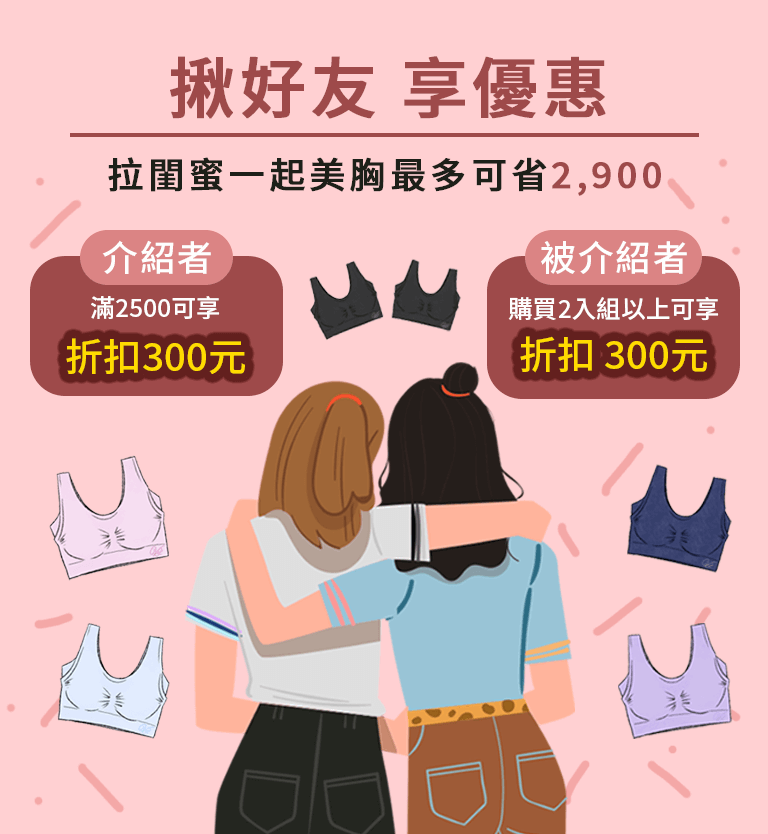
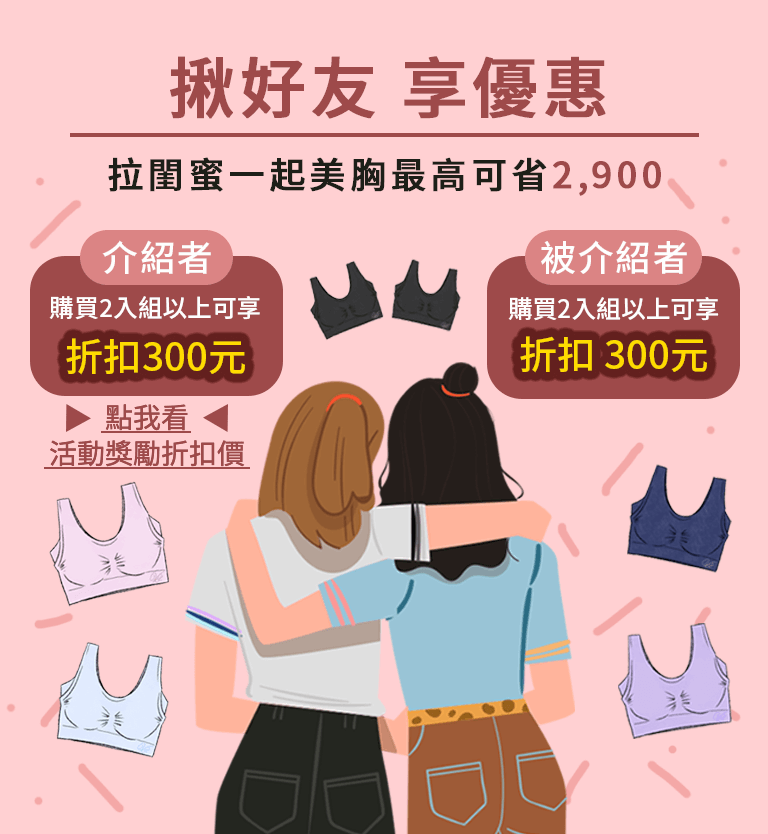
20210317_add modal

diff --git a/index.html b/index.html
@@ -3,6 +3,8 @@
 
 <head>
     <title>揪好友省錢美胸👙+VIAGE送你購物金</title>
+    <link href="https://cdn.jsdelivr.net/npm/bootstrap@5.0.0-beta2/dist/css/bootstrap.min.css" rel="stylesheet"
+        integrity="sha384-BmbxuPwQa2lc/FVzBcNJ7UAyJxM6wuqIj61tLrc4wSX0szH/Ev+nYRRuWlolflfl" crossorigin="anonymous">
     <link rel="stylesheet" href="css/bootstrap.min.css">
     <meta http-equiv="Content-Type" content="text/html; charset=utf-8">
     <!-- 編集削除禁止※スマホ最適化※編集削除禁止 -->
@@ -89,12 +91,11 @@
                         <img src="images/vgdm30/01_banner.jpg" alt="">
                         <img class="mainview" src="images/vgdm30/01_fv.jpg" title="擁有完美胸型的捷徑-晚安立體美型內衣">
                         <img class="anniversary_1" src="images/vgdm30/02_million.jpg">
-                        <div class="anniversary_2" style="display:none">
+                        <!-- <div class="anniversary_2" style="display:none">
                             <img src="./images/detail.png" alt="">
-                        </div>
-                        <!-- 彈跳視窗 -->
-                        <script>
-                            //週年慶活動辦法下拉選單
+                        </div> -->
+                        <!-- 彈跳視窗 週年慶活動辦法下拉選單-->
+                        <!-- <script>
                             $(".anniversary_2 img,.anniversary_2").hide();
                             $('.anniversary_1').click(function (e) {
                                 e.preventDefault();
@@ -104,9 +105,11 @@
                                 e.preventDefault();
                                 $(".anniversary_2 img,.anniversary_2").hide();
                             });
-                        </script>
+                        </script> -->
                         <img src="images/vgdm30/03_keypoint.jpg">
-                        <img src="images/vgdm30/03_SP_friend_1.png">
+                        <a href="#sale">
+                            <img src="images/vgdm30/03_SP_friend_1.png">
+                        </a>
                         <img src="images/vgdm30/04_blogger.jpg">
                         <img src="images/vgdm30/05_magzine.jpg">
                     </div>
@@ -156,7 +159,10 @@
                     <!-- size -->
                     <section class="fv">
                         <div class="center">
-                            <img src="images/vgdm30/06_SP_friend_2.png" alt="">
+                            <!-- Button trigger modal -->
+                            <a href="javascript:void(0)" data-bs-toggle="modal" data-bs-target="#exampleModal">
+                                <img src="images/vgdm30/06_SP_friend_2.png" alt="">
+                            </a>
                             <img src="images/vgdm30/07_size.jpg" alt="">
                             <img src="images/vgdm30/08_contact.jpg" alt="">
                         </div>
@@ -178,6 +184,59 @@
                         </li>
                     </ul>
                 </section>
+
+                <!-- Modal -->
+                <!-- style="background-color: #FFEDEE;" -->
+                <!-- Modal -->
+                <div class="modal fade" id="exampleModal" tabindex="-1" aria-labelledby="exampleModalLabel"
+                    aria-hidden="true">
+                    <div class="modal-dialog modal-lg">
+                        <div class="modal-content" style="background-color: #FFEDEE;">
+                            <div class="modal-body">
+                                <div class="titlebox d-flex">
+                                    <h3>簡單4步驟，超殺折扣不放過</h3>
+                                    <button type="button" class="btn-close ml-auto" data-bs-dismiss="modal"
+                                        aria-label="Close"></button>
+                                </div>
+                                <p>Step1⃣ 將以下資訊複製給你的好友</p>
+                                <p id="copy">
+                                    【新朋友專屬優惠碼➜ 「vgfi300n」<br>
+                                    專屬訂購網站➜ http://bit.ly/3rX4MzY<br>
+                                    ⚠限購買2入(含)以上適用唷⚠】<br>
+                                    備註欄填入我的(介紹人)手機號碼：
+                                </p>
+                                <a href="javascript:void(0)" onclick="copyEvent('copy')">
+                                    <h4>→點我複製以上文字</h4>
+                                </a>
+                                <p>Step2⃣ 好友使用優惠碼下單折扣$300元<br>
+
+                                    Step3⃣ 好友收貨後，客服將主動聯繫您提供－老朋友專屬9折再折$300優惠碼<br>
+
+                                    Step4⃣ 使用老顧客專屬優惠碼，回購價格下單再享折扣$300，最高共省$2900！
+                                </p>
+
+                                <br>
+                                <h3>活動辦法</h3>
+                                <p>
+                                    一、介紹人資格：已於官網購買過Viage晚安立體美型內衣者<br>
+                                    二、被介紹人資格：尚未於官網購買過Viage晚安立體美型內衣者<br>
+                                    三、活動獎勵折扣<br>
+                                    (一) 介紹人獎勵折扣：<br>
+                                    獲折扣$300元優惠碼：介紹人於活動期間成功介紹1位新客購買Viage晚安立體美型內衣並完成收貨，即可獲得介紹人獎勵折扣$300元優惠碼(限收到優惠碼後30天內購買2入(含)以上使用)<br>
+                                    (二) 被介紹人優惠：<br>
+                                    購買2入(含)以上任一方案可享折扣$300元
+                                </p>
+                            </div>
+                        </div>
+                    </div>
+                </div>
+                <script>
+                    function copyEvent(id) {
+                        var str = document.getElementById(id);
+                        window.getSelection().selectAllChildren(str);
+                        document.execCommand("Copy")
+                    }
+                </script>
 
                 <!-- GetButton.io widget -->
                 <div class="line_alert">
@@ -210,7 +269,7 @@
         </div>
         <br>
     </div>
-    
+
     <!-- wrapper End -->
     <!-- 編集削除禁止※ACCESS　JAVASCRIPT※編集削除禁止 -->
     <div id=acs_lp_form></div>
@@ -218,6 +277,9 @@
     <!-- 編集削除禁止※ACCESS　JAVASCRIPT※編集削除禁止 -->
 
     <!-- 網頁設計師編輯區塊 -->
+    <script src="https://cdn.jsdelivr.net/npm/bootstrap@5.0.0-beta2/dist/js/bootstrap.bundle.min.js"
+        integrity="sha384-b5kHyXgcpbZJO/tY9Ul7kGkf1S0CWuKcCD38l8YkeH8z8QjE0GmW1gYU5S9FOnJ0"
+        crossorigin="anonymous"></script>
     <script src="js/all.js"></script>
 </body>
 

diff --git a/js/all.js b/js/all.js
@@ -6,6 +6,12 @@ $(document).ready(function () {
             scrollTop: $('#buy').offset().top,
         }, 900);
     });
+    $('a[href="#sale"]').click(function (e) {
+        e.preventDefault();
+        $('html , body').animate({
+            scrollTop: $('#sale').offset().top,
+        }, 900);
+    });
 
     // $("#wh-call-to-action").removeAttr("wh-click");
     $("#wh-call-to-action").removeClass("wh-animation-in");
